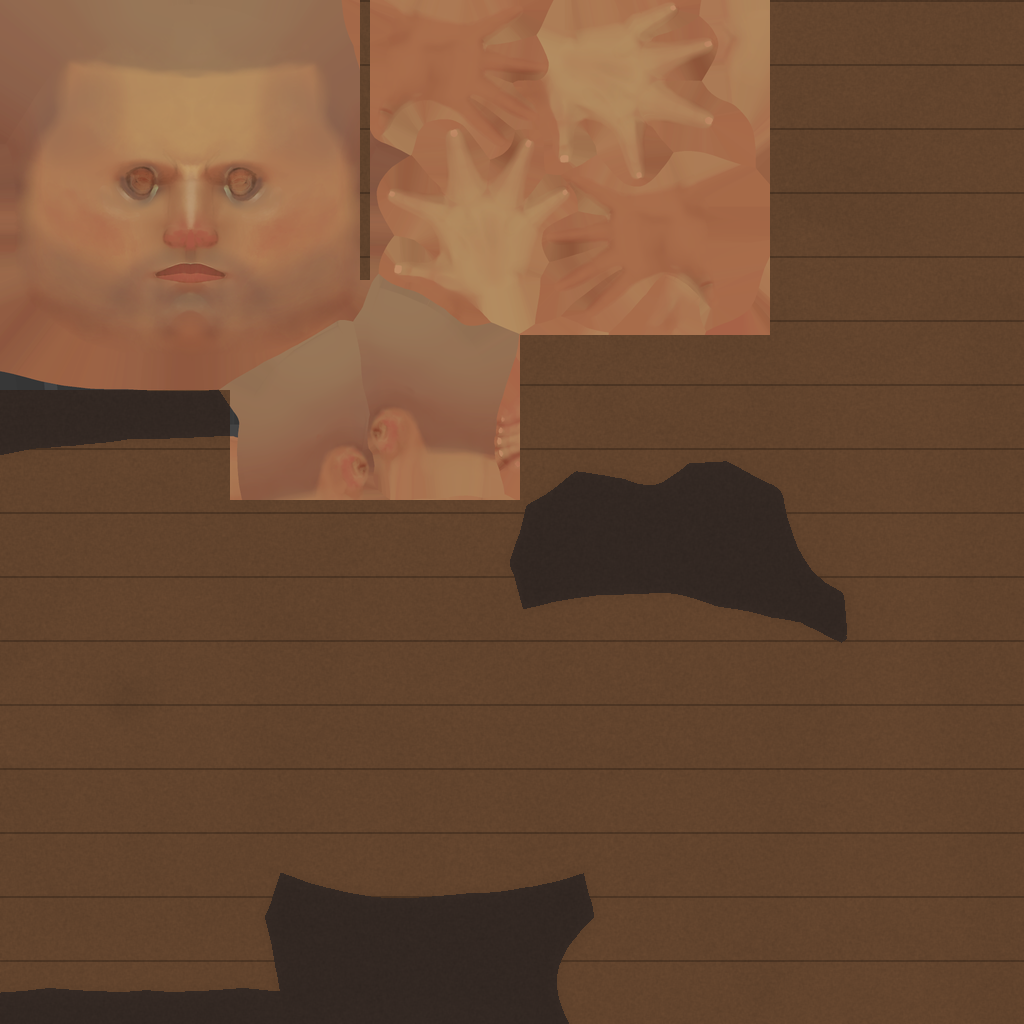
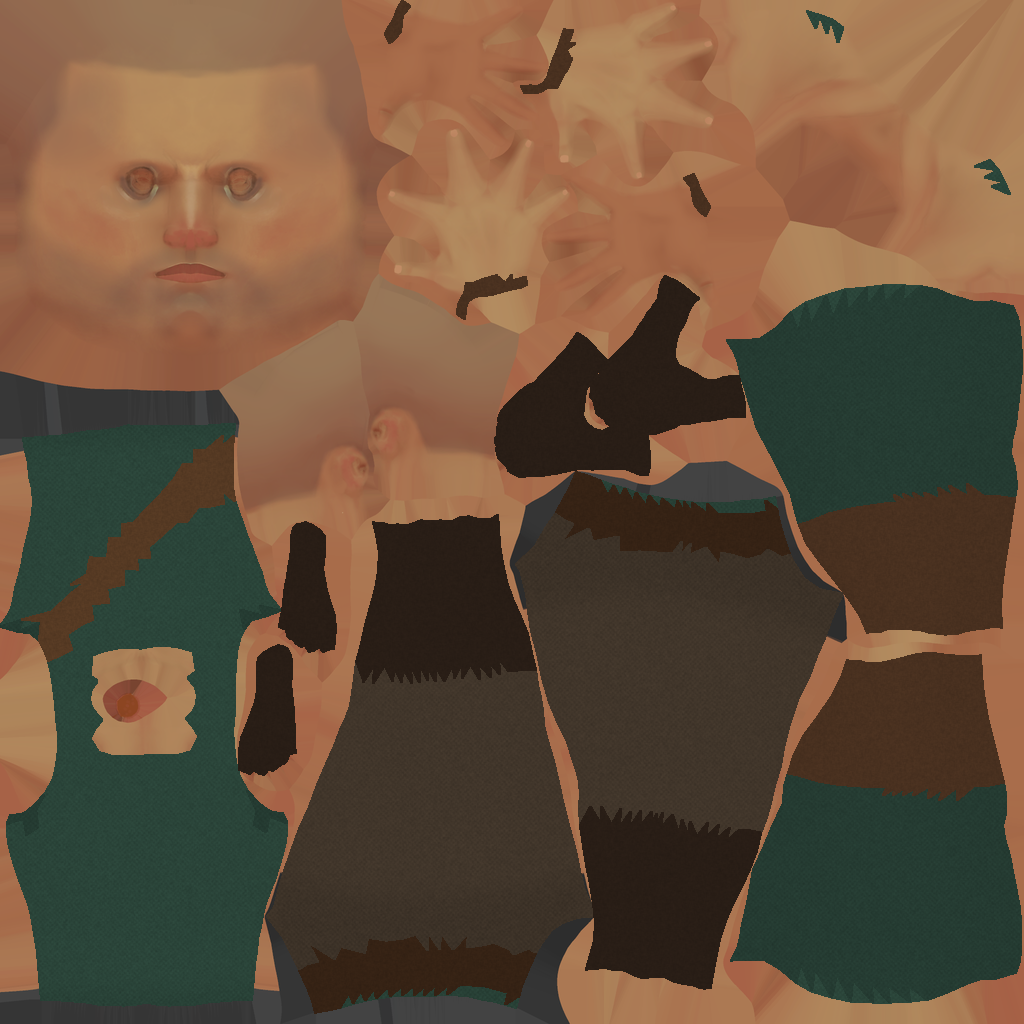
Beauté des personnages et des monstres
- Héros : vraie tenue peinte par zones du corps (tunique verte, manches, brassards de cuir,
  ceinture, pantalon, bottes) au lieu du corps nu ; visage et mains gardés
- Contour sombre (silhouette lisible comme dans Albion) et liseré de lumière sur tous les personnages
- Brutes et Gardien : fissures de lave qui luisent et respirent ; rôdeurs : peau pâle bleutée et humide
- Poussière sous les pas du héros et des monstres, pas lourds des brutes
- Contournement des obstacles dans tous les états des monstres

Claude-Session: https://claude.ai/code/session_01RuaQUQj717pCqM9x58rxyw

diff --git a/CLAUDE.md b/CLAUDE.md
@@ -48,7 +48,8 @@ Une brique est finie à 100 % avant la suivante. Les nouvelles idées vont dans 
 
 ## Journal des leçons (ne jamais refaire)
 
-- Modèle de base Quaternius = corps nu : il faut le pack **Modular Character Outfits – Fantasy** (demandé au créateur) ; la tenue de cuir peinte est provisoire.
+- Modèle de base Quaternius = corps nu : il faut le pack **Modular Character Outfits – Fantasy** (demandé au créateur). En attendant, la tenue est **peinte par zones du corps** (tunique, manches, brassards, ceinture, pantalon, bottes) : script Python qui lit le maillage (position au repos → zone) et colorie la texture UV. Normal map désactivée (sinon les muscles transparaissent).
+- Beauté des personnages : `G.character_look()` (contour sombre en coque inversée, liseré de lumière, teinte, lave qui luit et respire). L'appliquer à tout nouveau personnage ou monstre.
 - Épée `Human_Sword.fbx` dans `hand_r` : rotation (0, −90, −90), matériau acier remplacé (texture manquante = rose).
 - Les textures Quaternius sont trop claires sous ce rendu : teinter les rochers (0,66 0,63 0,58), cailloux et bordures.
 - Les panneaux Label3D doivent être `fixed_size` (sinon énormes près de la caméra).
@@ -58,9 +59,10 @@ Une brique est finie à 100 % avant la suivante. Les nouvelles idées vont dans 
 - Ne pas placer de grand bâtiment juste au sud du point d'apparition (la caméra regarde du sud).
 - Relief : tout se pose avec `main.h(x, z)` (décor, herbe, lin, monstres, effets au sol). Les chemins, camps et le bourg restent plats. Les rayons de collision du décor sont des rayons de base (multipliés par l'échelle) : rester vers 0,85 pour les gros rochers.
 - Les grands arbres tordus (TwistedTree) ont une couronne énorme : échelle 0,75 au plus près des zones de passage.
-- Monstres sans recherche de chemin : contournement automatique quand ils sont bloqués (sinon la sentinelle signale MONSTRE_BLOQUE).
+- Monstres sans recherche de chemin : contournement automatique dans `_move()` quand ils sont bloqués (tous les états) (sinon la sentinelle signale MONSTRE_BLOQUE).
 - `_tint` puis `_dither_tree` : le tramage doit partir du matériau déjà teinté (matériau de surface remplacé).
 - Grand décor près d'une arène (arbres morts, gros rochers) : le tramer ou l'écarter, sinon il cache le combat.
+- `ABY_TEST=close` + `ABY_CLOSE=1` : gros plans du héros, des brutes, des rôdeurs et du boss (vérifier les textures).
 - `ABY_TEST=relief` : captures de la crête nord, des falaises est, des collines ouest et de l'étang.
 
 ## Retours du créateur (à appliquer en priorité)
